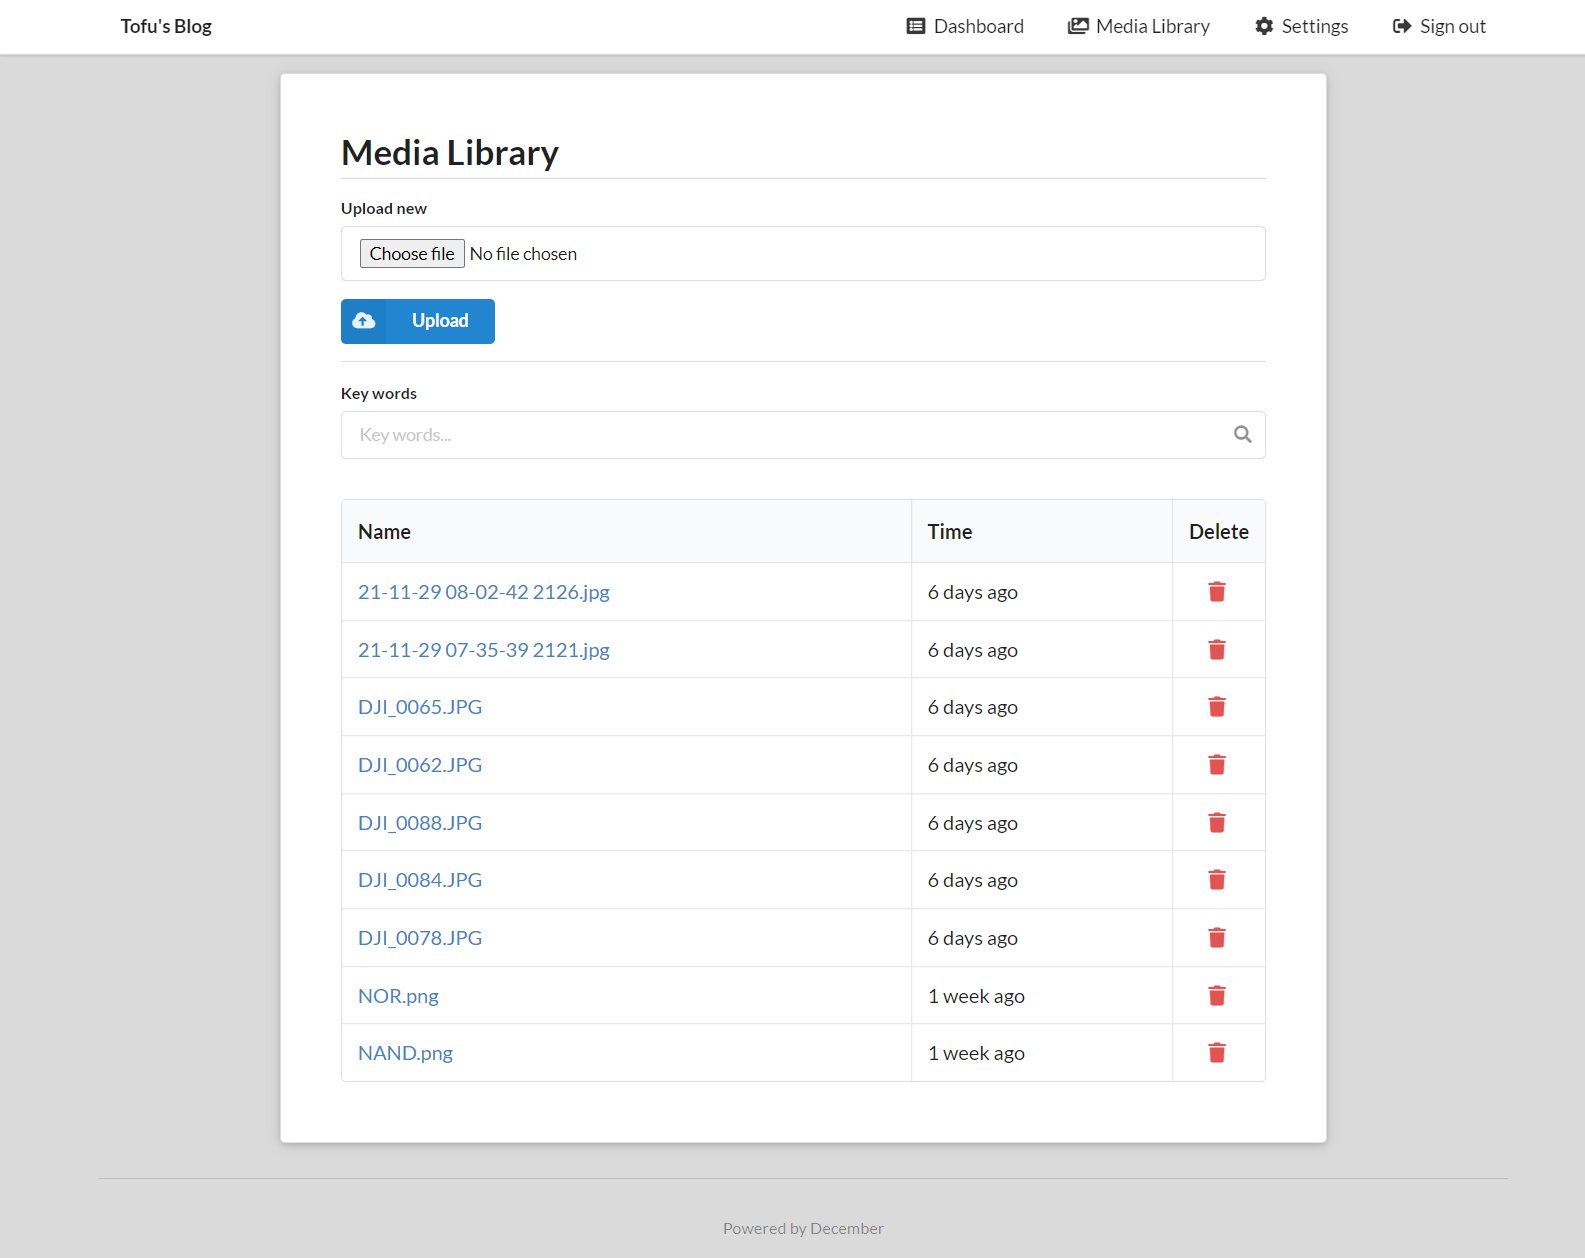
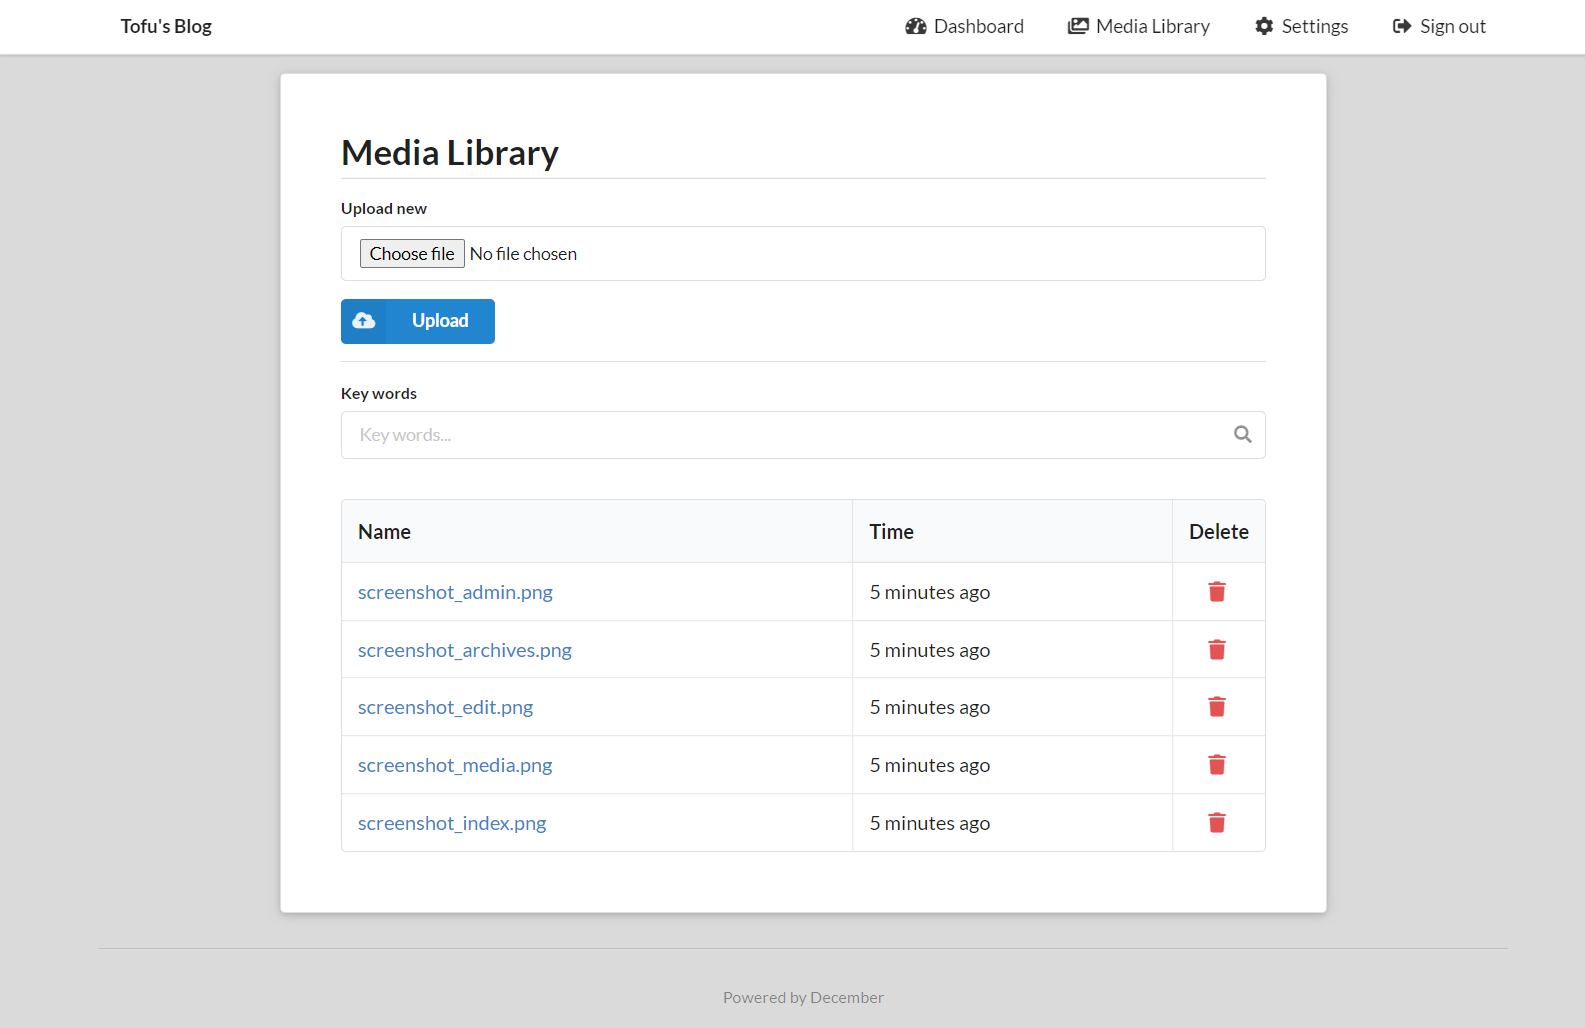
Version 1.4.2

diff --git a/December/templates/index.html b/December/templates/index.html
@@ -6,7 +6,7 @@
     {% endfor %}
     {% if logged_in %}
     <a class="item" href="/admin">
-      <i class="list alternate icon"></i>Dashboard
+      <i class="tachometer alternate icon"></i>Dashboard
     </a>
     {% else %}
     <a class="item" href="/login">
@@ -27,7 +27,7 @@
           {% endfor %}
           {% if logged_in %}
           <a class="item" href="/admin">
-            <i class="list alternate icon"></i>Dashboard
+            <i class="tachometer alternate icon"></i>Dashboard
           </a>
           {% else %}
           <a class="item" href="/login">
@@ -60,7 +60,7 @@
             </div>
             {% if post.top %}
             <div class="ui left pointing yellow label">
-              Top
+              <i class="thumbtack icon"></i> Pinned
             </div>
             {% endif %}
           </h1>
@@ -70,7 +70,7 @@
               <i class="calendar icon"></i> {{ post.time }}
             </div>
             <div class="ui label">
-              <i class="comment icon"></i> {{ post.comments_num }} comment{% if post.comments_num > 1 %}s{% endif %}
+              <i class="comments icon"></i> {{ post.comments_num }} comment{% if post.comments_num > 1 %}s{% endif %}
             </div>
           </div>
           <div class="ui hidden divider"></div>
@@ -103,7 +103,7 @@
           <div class="ui divider"></div>
           <div class="ui three item menu">
             <a class="item" href="/admin/edit"><i class="plus icon"></i></i></a>
-            <a class="item" href="/admin"><i class="list alternate icon"></i></a>
+            <a class="item" href="/admin"><i class="tachometer alternate icon"></i></a>
             <a class="item" href="/logout"><i class="sign out alternate icon"></i></a>
           </div>
           {% endif %}

diff --git a/December/templates/archives.html b/December/templates/archives.html
@@ -6,7 +6,7 @@
     {% endfor %}
     {% if logged_in %}
     <a class="item" href="/admin">
-      <i class="list alternate icon"></i>Dashboard
+      <i class="tachometer alternate icon"></i>Dashboard
     </a>
     {% else %}
     <a class="item" href="/login">
@@ -27,7 +27,7 @@
           {% endfor %}
           {% if logged_in %}
           <a class="item" href="/admin">
-            <i class="list alternate icon"></i>Dashboard
+            <i class="tachometer alternate icon"></i>Dashboard
           </a>
           {% else %}
           <a class="item" href="/login">
@@ -64,7 +64,7 @@
               <i class="calendar icon"></i> {{ post_time }}
             </div>
             <div class="ui label">
-              <i class="comment icon"></i> {{ post_comments_num }} comment{% if post_comments_num > 1 %}s{% endif %}
+              <i class="comments icon"></i> {{ post_comments_num }} comment{% if post_comments_num > 1 %}s{% endif %}
             </div>
           </div>
           <div class="ui hidden divider"></div>
@@ -72,6 +72,7 @@
           {% if visible %}
           {{ post_content|safe }}
           {% else %}
+          {% include 'messages.html' %}
           <form class="ui form" method="post">{% csrf_token %}
             <input type="hidden" name="is-password-form" value="1">
             <div class="field">

diff --git a/December/templates/admin.html b/December/templates/admin.html
@@ -88,7 +88,7 @@
         </div>
         <div class="six wide column">
           <div class="ui raised very padded large segment">
-            <h1 class="ui dividing header">{{ comment_cnt }} Comment{% if post_cnt > 1 %}s{% endif %}</h1>
+            <h1 class="ui dividing header">{{ comment_cnt }} Comment{% if comment_cnt > 1 %}s{% endif %}</h1>
             <div class="field">
               <label>Key words</label>
               <div class="ui icon input">
@@ -111,7 +111,7 @@
                   <div class="text">{{ i.text|linebreaks }}</div>
                   <div class="actions">
                     <a href="/archives/{{ i.pid }}#comment-{{ i.cid }}">
-                      <i class="linkify icon"></i>
+                      <i class="external alternate icon"></i>
                       View
                     </a>
                     <a href="/admin/edit-comment/{{ i.cid }}">

diff --git a/December/templates/comments.html b/December/templates/comments.html
@@ -4,7 +4,11 @@
     <img src="https://www.gravatar.com/avatar/{{ i.email_hash }}">
   </a>
   <div id="comment-{{ i.cid }}" class="content">
-    <a class="author" {% if i.url|length %}href="{{ i.url }}"{% endif %}>{{ i.author }}</a>
+    {% if i.url|length %}
+    <a class="author" href="{{ i.url }}">{{ i.author }}</a>
+    {% else %}
+    <a class="author" href="#comment-{{ i.cid }}">{{ i.author }}</a>
+    {% endif %}
     <div class="metadata">
       <span class="date">{{ i.time }}</span>
     </div>

diff --git a/December/templates/edit_comment.html b/December/templates/edit_comment.html
@@ -29,7 +29,7 @@
             <h4 class="ui header">
               Editing 
               <a href="/archives/{{ comment_pid }}#comment-{{ cid }}">
-                {{ comment_author }}'s comment<i class="linkify icon"></i>
+                {{ comment_author }}'s comment <i class="external alternate icon"></i>
               </a>
             </h4>
             <div class="required field">

diff --git a/December/templates/edit.html b/December/templates/edit.html
@@ -32,7 +32,7 @@
               {% else %}
               Editing 
               <a href="/archives/{{ pid }}">
-                {{ post_title }}<i class="linkify icon"></i>
+                {{ post_title }} <i class="external alternate icon"></i>
               </a>
               {% endif %}
             </h4>

diff --git a/December/static/css/december.css b/December/static/css/december.css
@@ -6,7 +6,7 @@ body, .pusher {
     display: none;
 }
 
-@media only screen and (max-width: 768px) {
+@media only screen and (max-width: 700px) {
     .top.fixed.borderless.menu .toc.right.item {
         display: flex;
     }

diff --git a/December/December/functions.py b/December/December/functions.py
@@ -30,7 +30,7 @@ def get_navigation_links():
 
 def get_admin_navigation_links():
     return [
-            ['<i class="list alternate icon"></i>Dashboard', "/admin"],
+            ['<i class="tachometer alternate icon"></i>Dashboard', "/admin"],
             ['<i class="images icon"></i>Media Library', "/admin/media"],
             ['<i class="cog icon"></i>Settings', "/admin/settings"],
             ['<i class="sign out alternate icon"></i>Sign out', "/logout"]

diff --git a/README.md b/README.md
@@ -255,6 +255,8 @@ You may need to use the SMTP service to send notifications to yourself or to oth
 
 ![screenshot_media](images/screenshot_media.png)
 
+![screenshot_media](images/screenshot_settings.png)
+
 ## TODO
 
 + [x] Media Library System
@@ -263,6 +265,13 @@ You may need to use the SMTP service to send notifications to yourself or to oth
 + [ ] More advanced settings
 
 ## Release History
+
+### 1.4.2
+
++ Fix message displaying bug for protected articles
++ Modify some icons' display
++ CSS adjustments
++ Fix small bugs
 
 ### 1.4.1
 
